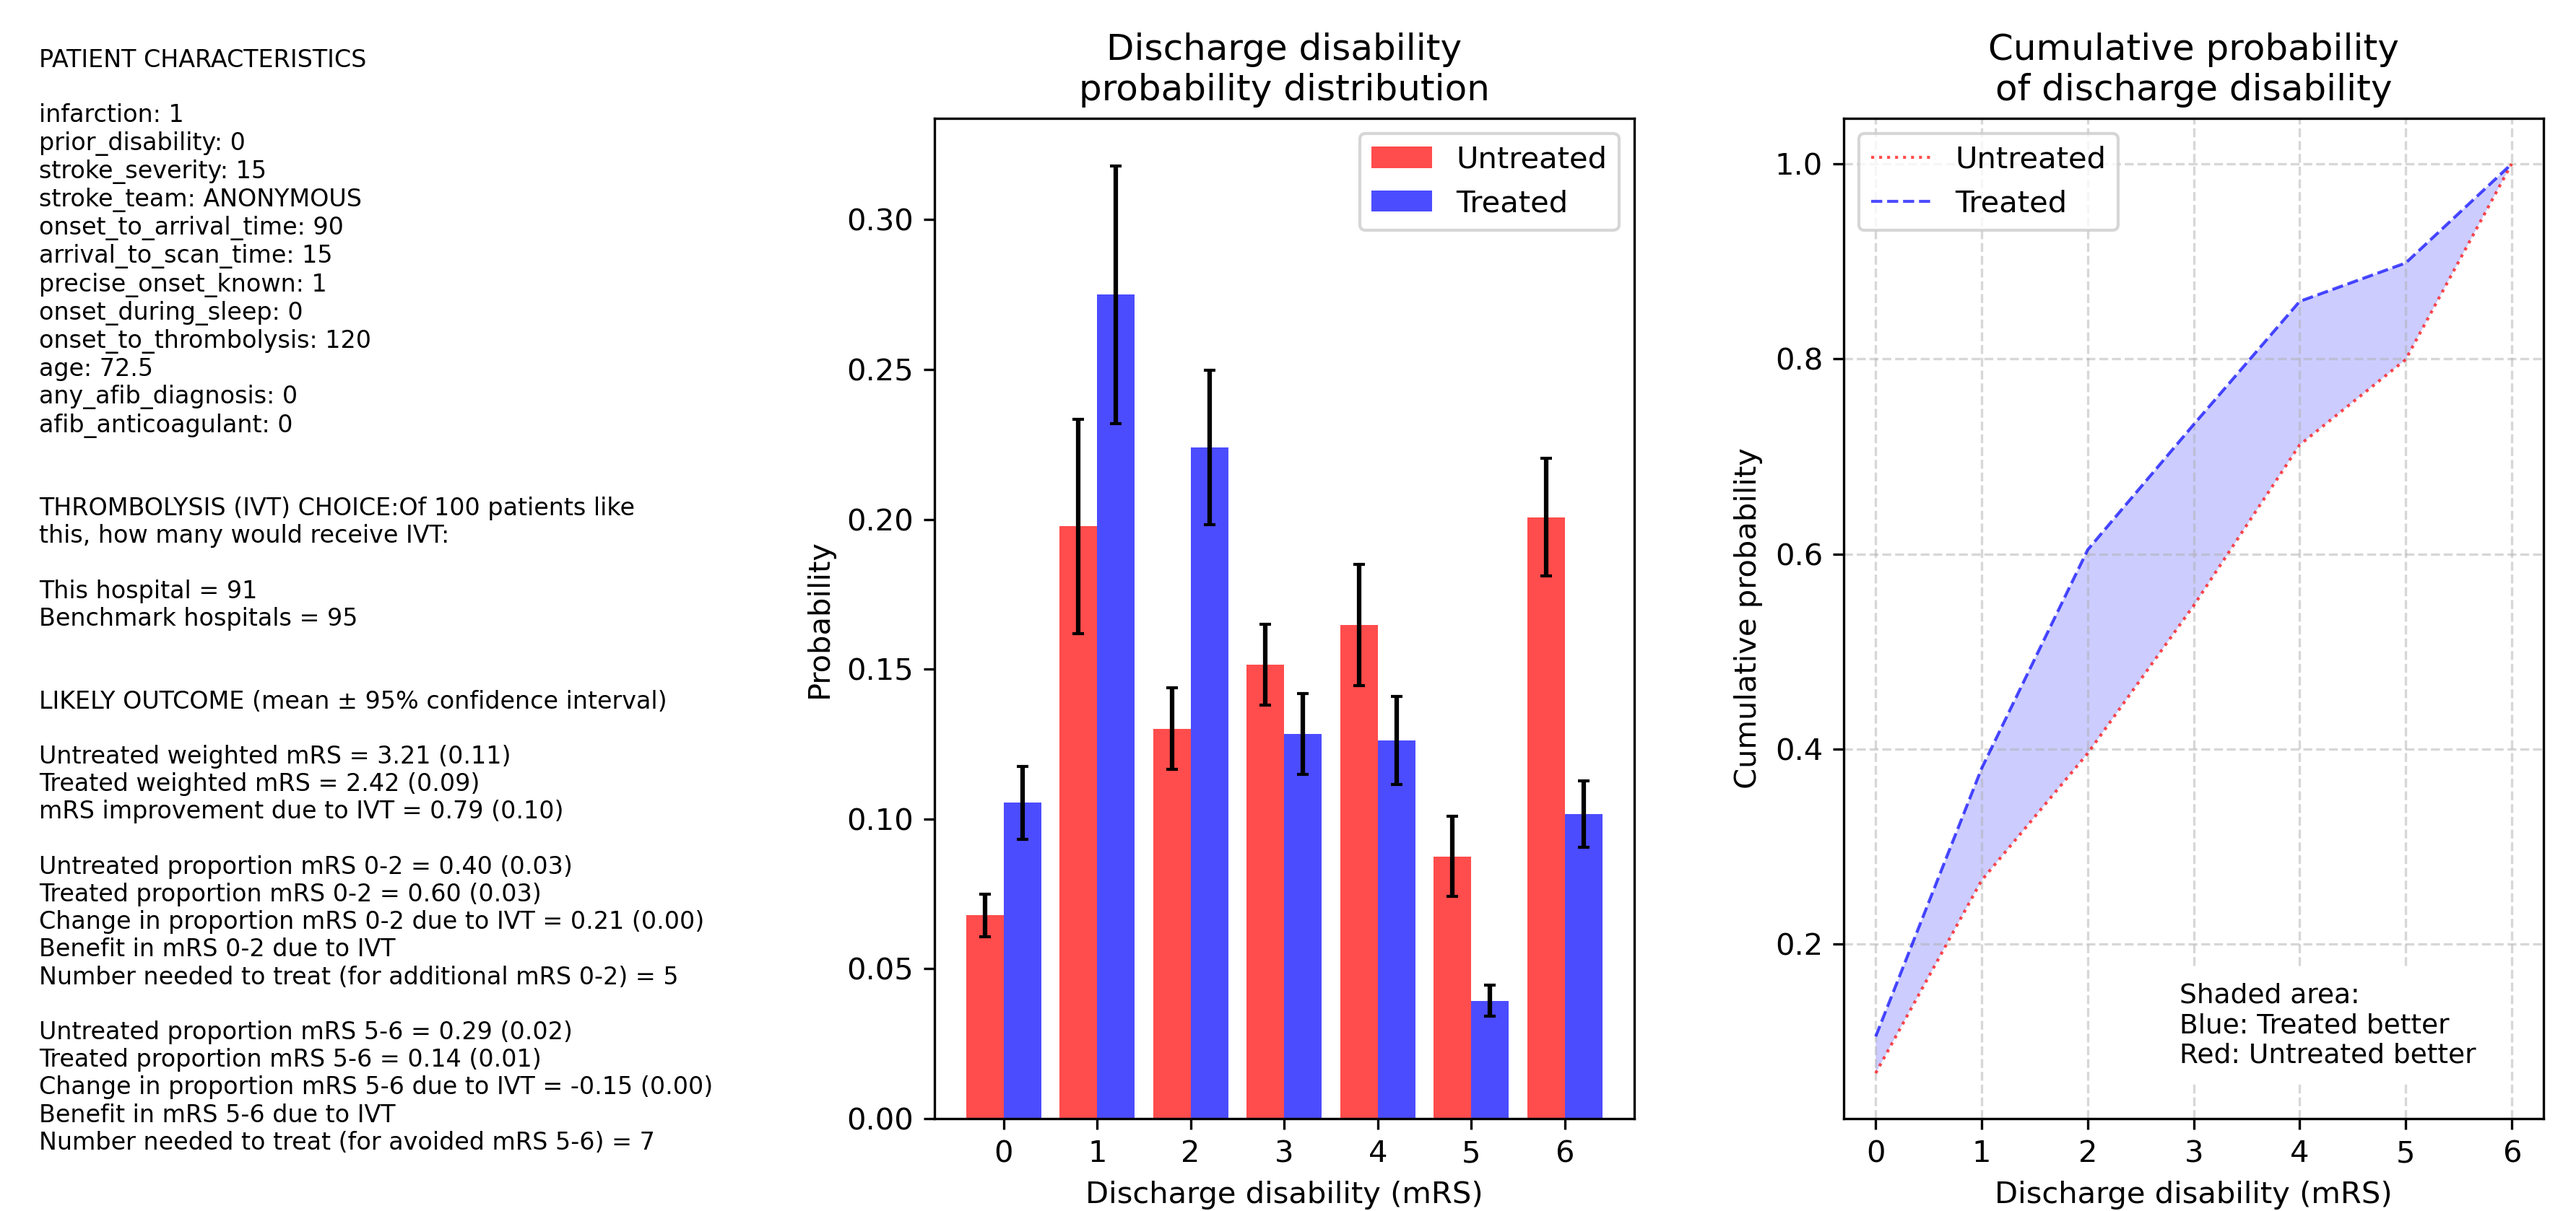
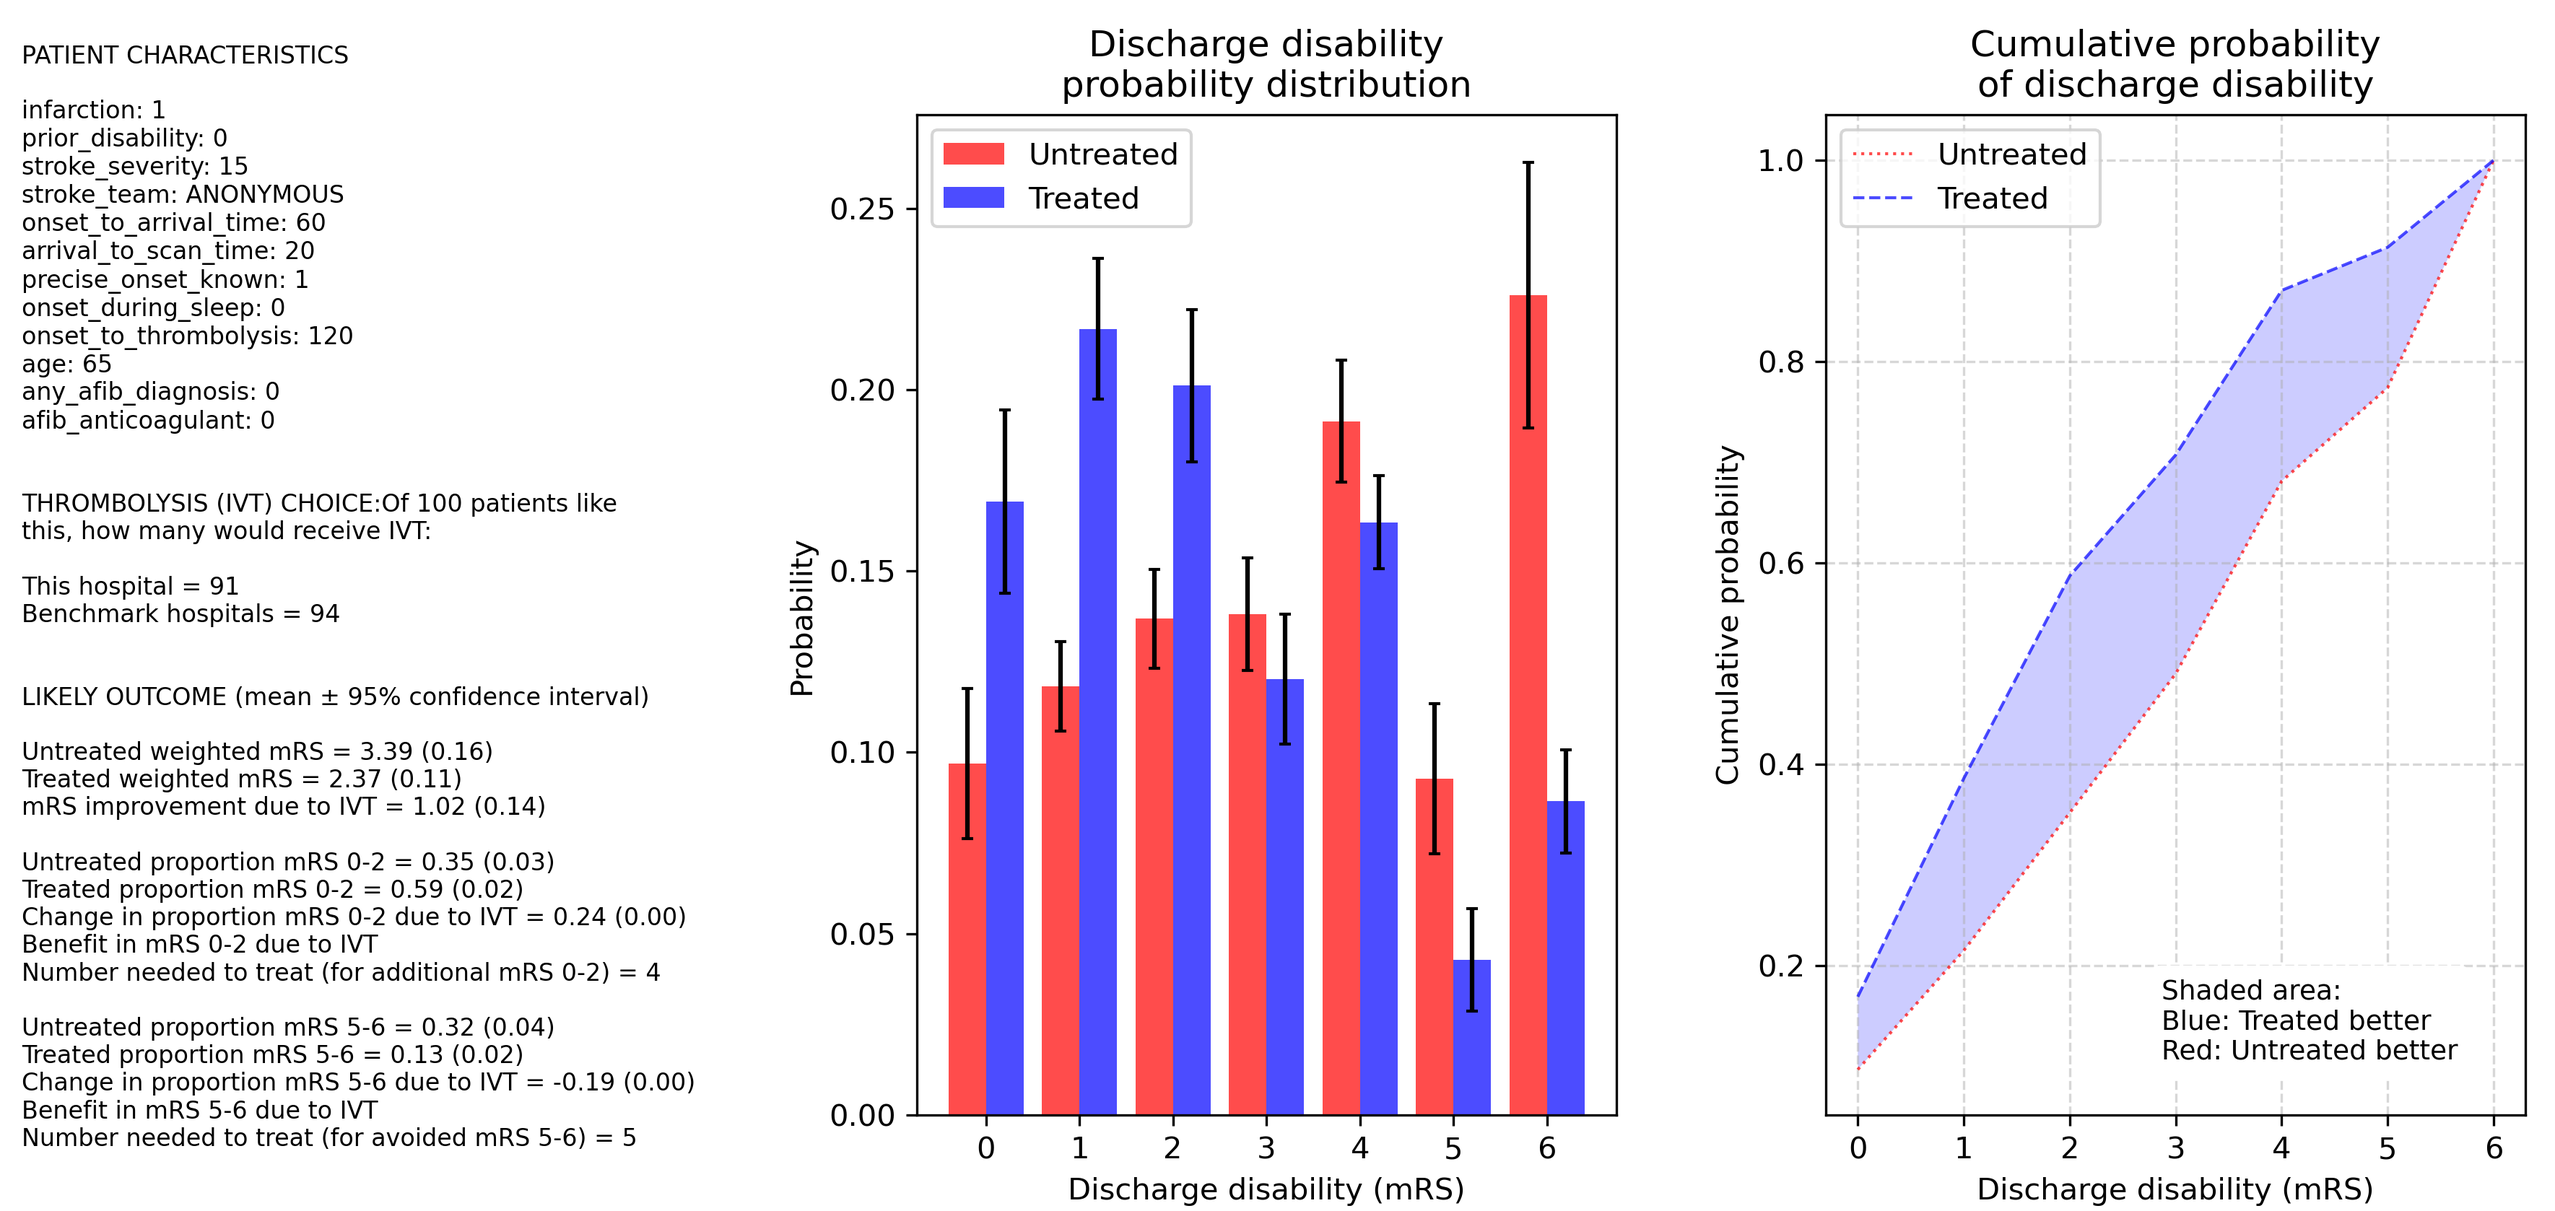
Updates from Overleaf

diff --git a/sections/5_results.tex b/sections/5_results.tex
@@ -33,28 +33,27 @@ Using a 80:20 train:test split, the model had a receiver operating characteristi
 \begin{minipage}{1\textwidth}
 \small
 \begin{longtable}{p{5.2cm} | p{1.6cm} p{1.6cm} p{1.5cm} | p{1.6cm} p{1.6cm} p{1.5cm}}
-\caption{Predicted outcomes for patient prototypes. \textit{Ideal}: Onset-to-arrival = 90 minutes; arrival-to-scan = 15 minutes; onset-to-thrombolysis = 120 minutes; stroke severity (NIHSS) = 15; pre-stroke disability (mRS) = 0; age = 72.5; Precisely known onset; onset not during sleep; stroke type = Infarction; patient has no atrial fibrillation and is not receiving anticoagulants for atrial fibrillation. \textit{Late arrival}: as \textit{ideal} but onset-to-arrival = 225 minutes and onset-to-thrombolysis = 255 minutes. \textit{Mild}; As \textit{ideal} but stroke severity = 3; \textit{Prior disability}: as \textit{ideal} but pre-stroke disability = 3; \textit{Imprecise}: as \textit{ideal} but stroke onset time estimated. \textit{Age}: as \textit{ideal} but age = 87.5. Results show probability-weighted disaibility at discharge, and the proportion of patients predicted to have a very poor outcome (mRS 5-6).}\\
+\caption{Predicted outcomes for patient prototypes. \textit{Ideal}: Onset-to-arrival = 90 minutes; arrival-to-scan = 15 minutes; onset-to-thrombolysis = 120 minutes; stroke severity (NIHSS) = 15; pre-stroke disability (mRS) = 0; age = 72.5; Precisely known onset; onset not during sleep; stroke type = Infarction; patient has no atrial fibrillation and is not receiving anticoagulants for atrial fibrillation. \textit{Late arrival}: as \textit{ideal} but onset-to-arrival = 225 minutes and onset-to-thrombolysis = 255 minutes. \textit{Mild}; As \textit{ideal} but stroke severity = 3; \textit{Prior disability}: as \textit{ideal} but pre-stroke disability = 3; \textit{Imprecise}: as \textit{ideal} but stroke onset time estimated. \textit{Age}: as \textit{ideal} but age = 87.5. Results show probability-weighted disability at discharge, and the proportion of patients predicted to have a very poor outcome (mRS 5-6).}\\
 \toprule
 \endhead
-Patient prototype & Untreated probability-weighted mRS & Treated probability-weighted mRS & Improve-ment & Untreated proportion mRS 5-6 & Treated proportion mRS 5-6 & Improve-ment\tabularnewline
+Patient prototype & Untreated probability-weighted mRS & Treated probability-weighted mRS & Improve-ment & Untreated proportion mRS 5-6 & Treated proportion mRS 5-6 & Improve-ment\\
 \midrule
-Ideal & 3.21 & 2.42 & 0.79 & 0.29 & 0.14 & 0.15\tabularnewline
-Late & 3.21 & 2.88 & 0.34 & 0.29 & 0.14 & 0.15\tabularnewline
-Mild & 1.23 & 1.20 & 0.03 & 0.02 & 0.02 & 0.00\tabularnewline
-Prior disability & 4.33 & 3.73 & 0.60 & 0.44 & 0.28 & 0.16\tabularnewline
-Imprecise & 3.41 & 2.48 & 0.93 & 0.33 & 0.15 & 0.18\tabularnewline
-Age & 3.99 & 3.34 & 0.65 & 0.46 & 0.31 & 0.15\tabularnewline
-Mild + Prior disability & 2.88 & 2.70 & 0.19 & 0.07 & 0.06 & 0.02\tabularnewline
-Mild + Imprecise & 1.33 & 1.27 & 0.06 & 0.03 & 0.02 & 0.01\tabularnewline
-Mild + Age & 1.65 & 1.59 & 0.06 & 0.04 & 0.04 & 0.00\tabularnewline
-Mild + Late & 1.23 & 1.63 & -0.40 & 0.02 & 0.02 & 0.00\tabularnewline
-Imprecise + Prior disability & 4.44 & 3.79 & 0.65 & 0.48 & 0.31 & 0.17\tabularnewline
-Imprecise + Age & 4.13 & 3.36 & 0.76 & 0.49 & 0.32 & 0.18\tabularnewline
-Imprecise + Late & 3.41 & 2.96 & 0.45 & 0.33 & 0.15 & 0.15\tabularnewline
-Prior disability + Age & 4.71 & 4.42 & 0.28 & 0.55 & 0.45 & 0.09\tabularnewline
-Prior disability + Late & 4.44 & 3.68 & 0.76 & 0.48 & 0.24 & 0.24\tabularnewline
-Mild + Prior disability + Imprecise & 3.04 & 2.76 & 0.27 & 0.12 & 0.09 & 0.03\tabularnewline
-Prior disability + Imprecise + Late & 4.44 & 3.68 & 0.76 & 0.48 & 0.24 & 0.24\tabularnewline
+Ideal & 3.39 & 2.37 & 1.02 & 0.32 & 0.13 & 0.19\\
+Late & 3.39 & 2.73 & 0.66 & 0.32 & 0.18 & 0.14\\
+Mild & 1.15 & 0.91 & 0.23 & 0.01 & 0.01 & 0.00\\
+Prior disability & 4.22 & 3.61 & 0.61 & 0.41 & 0.23 & 0.19\\
+Imprecise & 3.49 & 2.39 & 1.10 & 0.33 & 0.13 & 0.20\\
+Age & 4.22 & 3.51 & 0.71 & 0.50 & 0.35 & 0.16\\
+Mild + Prior disability & 2.92 & 2.60 & 0.32 & 0.04 & 0.04 & 0.00\\
+Mild + Imprecise & 1.28 & 1.01 & 0.26 & 0.02 & 0.01 & 0.00\\
+Mild + Age & 1.84 & 1.63 & 0.22 & 0.04 & 0.03 & 0.01\\
+Mild + Late & 1.15 & 0.77 & 0.39 & 0.01 & 0.00 & 0.00\\
+Imprecise + Prior disability & 4.33 & 3.67 & 0.66 & 0.44 & 0.24 & 0.20\\
+Imprecise + Age & 4.31 & 3.57 & 0.74 & 0.53 & 0.36 & 0.17\\
+Imprecise + Late & 3.49 & 2.75 & 0.74 & 0.33 & 0.17 & 0.17\\
+Prior disability + Age & 4.62 & 4.35 & 0.27 & 0.53 & 0.44 & 0.08\\
+Prior disability + Late & 4.22 & 3.70 & 0.52 & 0.41 & 0.27 & 0.14\\
+Mild + Prior disability + Imprecise & 4.22 & 3.70 & 0.52 & 0.41 & 0.27 & 0.14\\
 \bottomrule
 \label{tab:prototype_outcomes}
 \end{longtable}
@@ -65,7 +64,7 @@ Prior disability + Imprecise + Late & 4.44 & 3.68 & 0.76 & 0.48 & 0.24 & 0.24\ta
 
 \begin{figure}
     \centering
-    \includegraphics[width=0.75\linewidth]{images/prototype_patients_team_x.png}
+    \includegraphics[width=1\linewidth]{images/prototype_patients_team_x.png}
     \caption{Enter Caption}
     \label{fig:thrombolysis_rates_prototype_patients_team_x}
 \end{figure}

diff --git a/sections/1_title.tex b/sections/1_title.tex
@@ -6,7 +6,6 @@
 \author[*1,2]{Michael Allen}
 \author[1,2]{Anna Laws}
 \author[3]{Peter McMeekin}
-\author[4]{Stephen McCarthy}
 \author[1,2]{Martin James}
 
 % Check affiliations - update RDE Name

diff --git a/main.tex b/main.tex
@@ -88,7 +88,7 @@
 
 
 
-\section{References}
+
 \bibliographystyle{naturemag}
 %\bibliographystyle{plainnat}
 %\bibliographystyle{unsrt}
